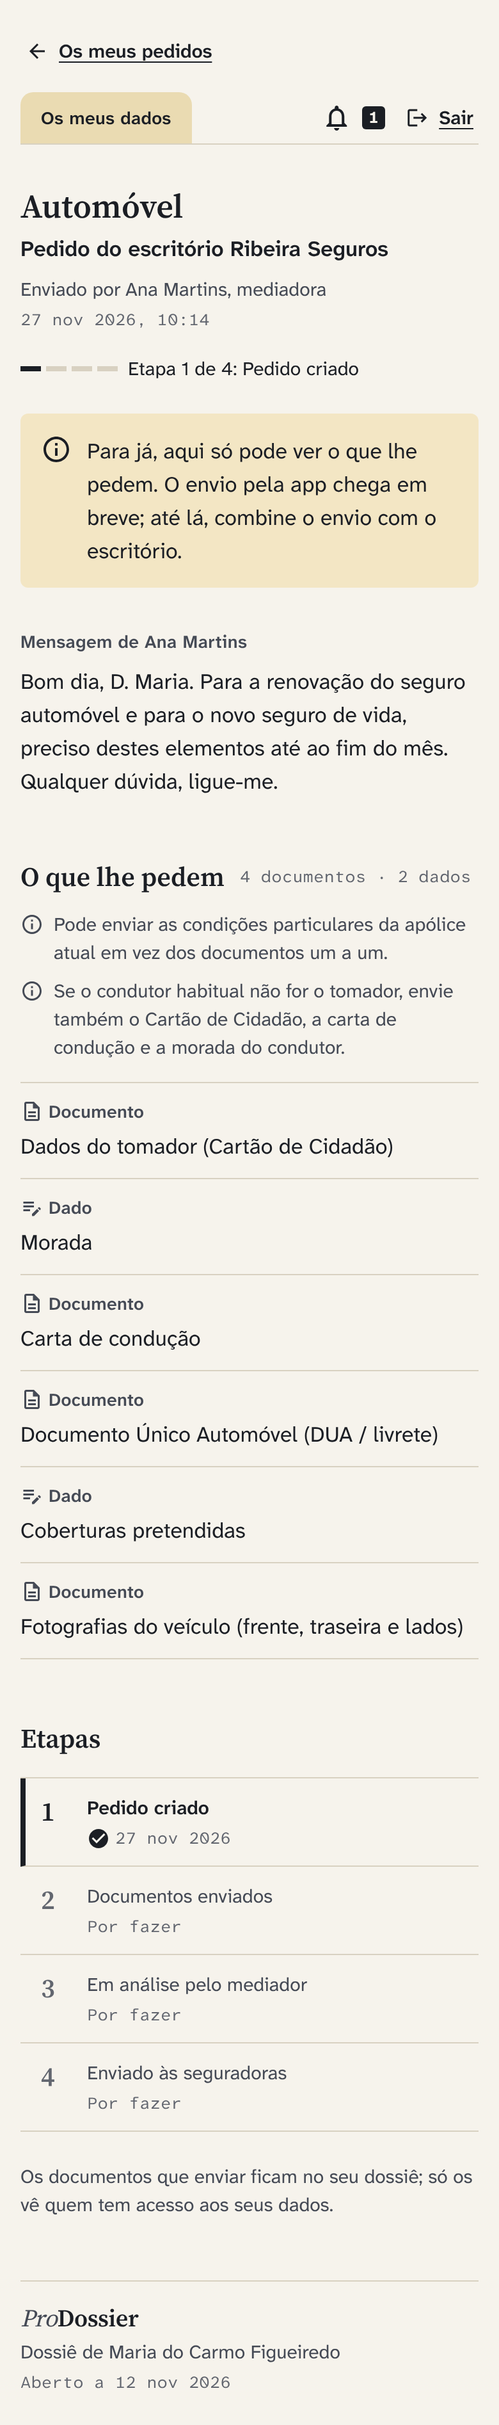
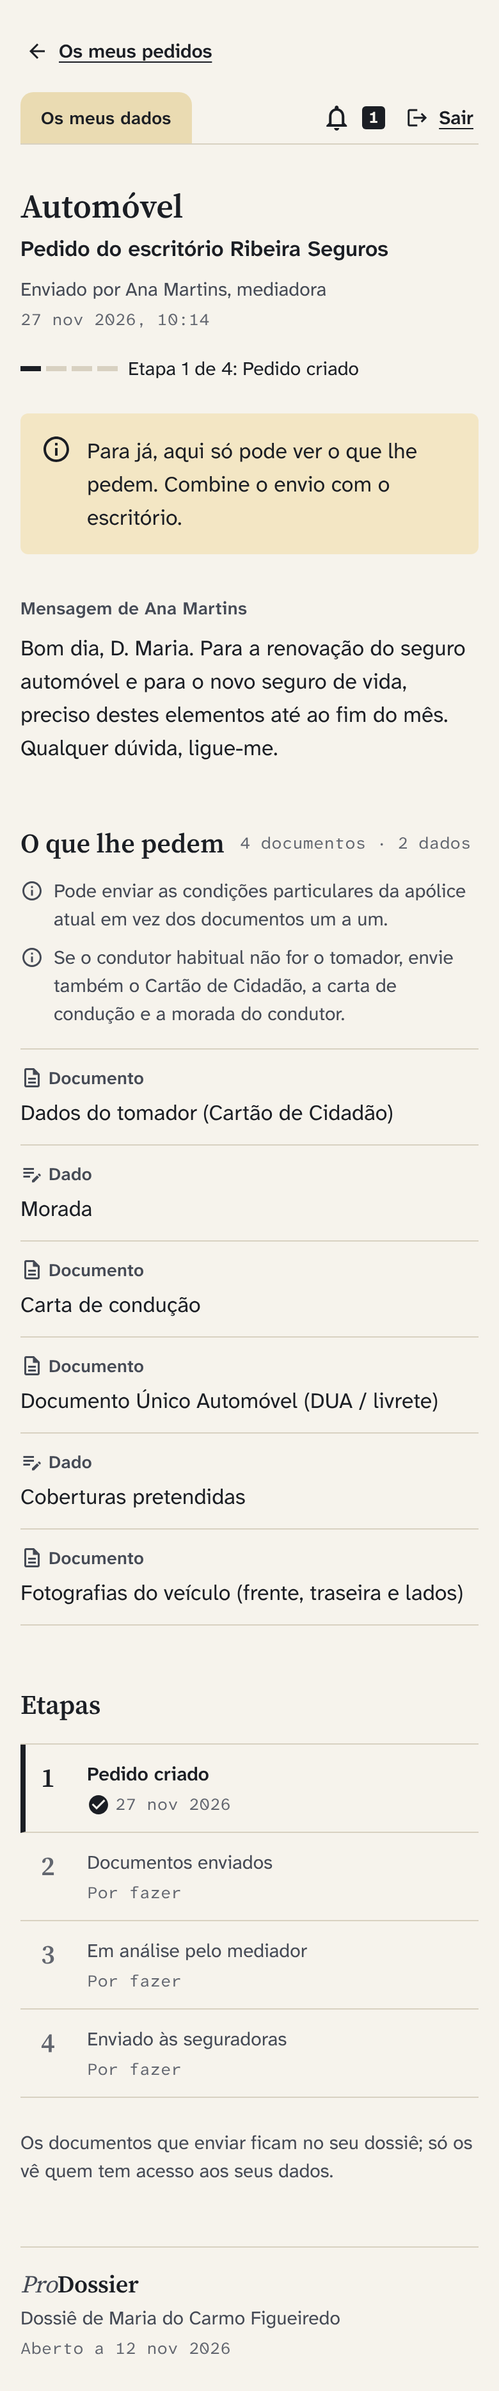
docs: ajustes do gate 2 da 002 (em curso)
Claude-Session: https://claude.ai/code/session_0153MsAUGaukdtLa8ahSZEuk

diff --git a/docs/features/002-novo-pedido/renders/src/catalogo.js b/docs/features/002-novo-pedido/renders/src/catalogo.js
@@ -23,8 +23,8 @@ window.CATALOGO = [
   { id: 6, nome: 'Saúde', itens: [CCT, MORADA, ['I', 'Data de nascimento de todas as pessoas a incluir'], ['I', 'Coberturas e capitais pretendidos']], nota: 'Para menores, o tomador é a mãe ou o pai. Com seguro de saúde há mais de 2 anos é possível transferir os períodos de carência.' },
   { id: 7, nome: 'Acidentes Pessoais', itens: [CCT, MORADA, ['I', 'Coberturas pretendidas'], ['I', 'Profissão']], nota: 'Individual ou de grupo.' },
   { id: 8, nome: 'Automóvel', itens: [CCT, MORADA, ['D', 'Carta de condução'], ['D', 'Documento Único Automóvel (DUA / livrete)'], ['I', 'Coberturas pretendidas'], ['I', 'Franquias (danos próprios)']], nota: 'Se o condutor habitual não for o tomador, envie também o Cartão de Cidadão, a carta de condução e a morada do condutor.' },
-  { id: 9, nome: 'Acidentes de Trabalho (prémio fixo)', itens: [['D', 'Dados do tomador (empresa)'], MORADA, ['I', 'CAE'], ['I', 'Nome e data de nascimento dos trabalhadores'], ['D', 'Recibos de vencimento (horas, salário base, subsídios)'], ['D', 'Apólice em vigor']], nota: 'Se já tem seguro, a apólice em vigor é essencial.' },
-  { id: 10, nome: 'Acidentes de Trabalho (prémio variável)', itens: [['D', 'Dados do tomador (empresa)'], MORADA, ['I', 'CAE'], ['I', 'Massa salarial'], ['D', 'Apólice em vigor']], nota: 'Se já tem seguro, a apólice em vigor é essencial.' },
+  { id: 9, nome: 'Acidentes de Trabalho (prémio fixo)', itens: [['D', 'Dados do tomador (empresa)'], MORADA, ['I', 'CAE'], ['I', 'Nome e data de nascimento dos trabalhadores'], ['D', 'Recibos de vencimento (horas, salário base, subsídios)'], ['D', 'Apólice em vigor']], nota: 'Se a empresa já tem seguro, envie a apólice em vigor.' },
+  { id: 10, nome: 'Acidentes de Trabalho (prémio variável)', itens: [['D', 'Dados do tomador (empresa)'], MORADA, ['I', 'CAE'], ['I', 'Massa salarial'], ['D', 'Apólice em vigor']], nota: 'Se a empresa já tem seguro, envie a apólice em vigor.' },
   { id: 11, nome: 'Pets', itens: [CCT, ['D', 'Livro do animal e micro-chip'], ['I', 'Tipo de atividade do animal (companhia, provas desportivas, etc.)']], nota: '' },
   { id: 12, nome: 'Responsabilidade Civil', itens: [['D', 'Dados do tomador (CC para trabalhadores independentes)'], MORADA, ['I', 'CAE']], nota: '' },
   { id: 13, nome: 'Obras', itens: [['D', 'Dados do tomador (CC para particulares)'], ['I', 'Morada da obra'], ['D', 'Plantas'], ['D', 'Orçamentos'], ['D', 'Caderno de encargos'], ['D', 'Memória descritiva da obra'], ['I', 'Percentagem de obra realizada']], nota: 'Os documentos pedidos variam de seguradora para seguradora.' },

diff --git a/docs/features/002-novo-pedido/renders/src/meus-pedidos.html b/docs/features/002-novo-pedido/renders/src/meus-pedidos.html
@@ -50,7 +50,7 @@
   else if (e === 'erro') corpo = `<div class="aviso erro mt24" role="alert"><div class="linha"><span class="ic g">${IC.erro}</span><p class="corpo">Não foi possível carregar os seus pedidos. Tente de novo.</p></div><div class="acoes mt12"><div class="btn contorno">Tentar de novo</div></div></div>`;
   else if (e === 'vazio') corpo = `<section class="mt24"><p class="corpoForte">Ainda não tem pedidos.</p><p class="corpo media mt4">Quando um escritório lhe pedir documentos para um seguro, o pedido aparece aqui e recebe também um email.</p></section>`;
   else corpo = `<p class="corpoForte mt8">Tem 3 pedidos em curso.</p>
-    <div class="aviso mt24"><div class="linha"><span class="ic g">${IC.info}</span><p class="corpo">Para já, aqui só pode ver o que lhe pedem. O envio pela app chega em breve; até lá, combine o envio com o escritório.</p></div></div>
+    <div class="aviso mt24"><div class="linha"><span class="ic g">${IC.info}</span><p class="corpo">Para já, aqui só pode ver o que lhe pedem. Combine o envio com o escritório.</p></div></div>
     <h2 class="rotulo media mt32">Em curso</h2>
     <div class="lista mt8" style="border-top:0">${ped('Automóvel', 'Ribeira Seguros', '27 nov 2026, 10:14', 4, 2)}${ped('Vida', 'Ribeira Seguros', '27 nov 2026, 10:14', 1, 4)}${ped('Saúde', 'Gabinete de Mediação de Seguros Vale do Sousa &amp; Filhos, Lda.', '22 nov 2026, 17:48', 1, 3)}</div>
     <h2 class="rotulo media mt32">Com o acesso retirado</h2>

diff --git a/docs/features/002-novo-pedido/renders/src/pedido.html b/docs/features/002-novo-pedido/renders/src/pedido.html
@@ -70,7 +70,7 @@
        <div class="meta mt8"><span class="corpoPequeno media">Enviado por Ana Martins, mediadora</span><span class="registo tenue">27 nov 2026, 10:14</span></div>`;
   const avisoRetirado = retirado ? `<div class="mt24"><div class="estado">${F.carimbo('inativo', 'Acesso retirado', IC.retirado)}<span class="registo tenue">Retirado a 26 nov 2026, 15:02</span></div>
       <p class="corpo mt12">O escritório Ribeira Seguros já não vê este pedido nem os seus dados. Se voltar a dar acesso, o pedido continua onde estava.</p></div>` : '';
-  const interino = !med && !retirado ? `<div class="aviso mt24"><div class="linha"><span class="ic g">${IC.info}</span><p class="corpo">Para já, aqui só pode ver o que lhe pedem. O envio pela app chega em breve; até lá, combine o envio com o escritório.</p></div></div>` : '';
+  const interino = !med && !retirado ? `<div class="aviso mt24"><div class="linha"><span class="ic g">${IC.info}</span><p class="corpo">Para já, aqui só pode ver o que lhe pedem. Combine o envio com o escritório.</p></div></div>` : '';
 
   P.innerHTML = voltar + pasta + `<article class="col-leitura">
     <h1 class="titulo mt32">Automóvel</h1>

diff --git a/docs/features/002-novo-pedido/03-design.md b/docs/features/002-novo-pedido/03-design.md
@@ -1,6 +1,6 @@
 # 03 Design: 002 Novo pedido (mediador) + clientes com o estado dos pedidos
 
-> Estado: **proposta para o gate 2** (2026-11-27). Renders em `renders/` (índice em `renders/README.md`).
+> **Gate 2 aprovado (2026-11-27)** pelo Henrique, com as decisões fechadas na secção "Decisões do gate 2". Tokens novos e o carimbo "Acesso retirado" já estão em `docs/design/DESIGN.md`. Renders em `renders/` (índice em `renders/README.md`).
 > Classificação: **refinamento com extensão**. A identidade da 001 ("Dossiê arrumado", aprovada a 2026-11-26) mantém-se tal como está: papel e tinta, separador de pasta, carimbos, réguas, colofão. A 002 acrescenta quatro peças novas a esse vocabulário (a lista de tipos, a folha "O cliente vai receber", o trilho/faixa de etapas e o sino) e mexe em dois ecrãs da 001 (Clientes e o ecrã inicial do cliente). Nenhuma fonte, cor ou dependência nova.
 > Fonte do âmbito: `02-spec.md` (gate 1 fechado a 27/11). Catálogo: `docs/reference/tipos-de-seguro.md`. O protótipo antigo foi usado só como referência de fluxo (grelha de 13 tipos, caixa de condições particulares, "O cliente vai receber" ao lado).
 
@@ -111,7 +111,7 @@ Mesma composição do ecrã 5 (pedido do cliente), com o widget partilhado `Requ
 ### 4. Os meus pedidos [cliente; passa a ser o ecrã inicial do cliente]
 
 - **Hierarquia:** 1.º (se houver) o bloco "À espera da sua resposta" da 001, que continua acima de tudo; 2.º "Os meus pedidos" e a lista; 3.º a passagem para "Com quem partilho".
-- **Composição:** separador "Os meus dados" + sino + "Sair". Título "Os meus pedidos"; frase-resumo `corpoForte` "Tem 3 pedidos em curso."; `InlineNotice` informativo enquanto não existir a 003 (ver Decisões em aberto). Grupos com cabeçalho `rotulo` `tintaMedia`, coluna `larguraLeitura` 640:
+- **Composição:** separador "Os meus dados" + sino + "Sair". Título "Os meus pedidos"; frase-resumo `corpoForte` "Tem 3 pedidos em curso."; `InlineNotice` informativo enquanto não existir a 003: "Para já, aqui só pode ver o que lhe pedem. Combine o envio com o escritório." (sem promessa de data; sai quando a 003 entrar). Grupos com cabeçalho `rotulo` `tintaMedia`, coluna `larguraLeitura` 640:
   - **Em curso:** cada pedido numa linha com régua: tipo em `subtitulo`; "Do escritório {escritório}" em `corpoPequeno` `tintaMedia` (até 2 linhas); trilho "Etapa 1 de 4: Pedido criado" + `registo` com a data; `corpoPequeno` "4 documentos e 2 dados pedidos"; à direita (médio/largo) ou por baixo a toda a largura (compacto) `SecondaryButton` "Ver o pedido" (48).
   - **Com o acesso retirado** (US 4.3): apoio "Estes escritórios já não veem os pedidos nem os seus dados. Se voltar a dar acesso, os pedidos continuam onde estavam."; a linha leva o carimbo novo "Acesso retirado" (`estadoInativo`, `undo`) em vez do trilho. "Ver o pedido" continua (ver não é uma ação sobre o pedido).
   - A `s48`, depois de uma régua: "Com quem partilho" (`subtitulo`), "Partilha os seus dados com 2 escritórios." e `SecondaryButton` "Ver com quem partilho" (abre o ecrã 4 da 001, que perde o papel de ecrã inicial mas fica igual).
@@ -120,7 +120,7 @@ Mesma composição do ecrã 5 (pedido do cliente), com o widget partilhado `Requ
 ### 5. Pedido [cliente; só leitura]
 
 - **Hierarquia:** 1.º tipo e escritório; 2.º o que lhe pedem (com a mensagem antes, como contexto); 3.º as etapas.
-- **Composição** (coluna 640): regresso "Os meus pedidos"; título com o tipo; "Pedido do escritório Ribeira Seguros" (`corpoForte`); "Enviado por Ana Martins, mediadora" + `registo` data; trilho "Etapa 1 de 4: Pedido criado"; `InlineNotice` interino; "Mensagem de Ana Martins" (`rotulo` `tintaMedia`) + texto `corpo` (quebra livre, nunca cortado); "O que lhe pedem" (`subtitulo`) + `registo` "4 documentos · 2 dados"; notas (condições particulares e nota do tipo); itens com réguas (natureza + texto, sem ação); "Etapas" (`subtitulo`) e a **faixa de etapas**; rodapé "Os documentos que enviar ficam no seu dossiê; só os vê quem tem acesso aos seus dados."
+- **Composição** (coluna 640): regresso "Os meus pedidos"; título com o tipo; "Pedido do escritório Ribeira Seguros" (`corpoForte`); "Enviado por Ana Martins, mediadora" + `registo` data; trilho "Etapa 1 de 4: Pedido criado"; `InlineNotice` interino (mesmo texto de Os meus pedidos); "Mensagem de Ana Martins" (`rotulo` `tintaMedia`) + texto `corpo` (quebra livre, nunca cortado); "O que lhe pedem" (`subtitulo`) + `registo` "4 documentos · 2 dados"; notas (condições particulares e nota do tipo); itens com réguas (natureza + texto, sem ação); "Etapas" (`subtitulo`) e a **faixa de etapas**; rodapé "Os documentos que enviar ficam no seu dossiê; só os vê quem tem acesso aos seus dados."
 - **Faixa de etapas (`StageStrip`):** médio/largo, 4 colunas iguais com réguas verticais `regua`, régua de baixo, e em cima de cada coluna uma barra de `AppStroke.etapa` 4: `tinta` nas etapas feitas, `regua` nas outras. Em cada coluna: número em `subtitulo` (serifa, tabular; `tintaTenue` se por fazer), nome em `corpoPequeno` (600 se feita, `tintaMedia` se não) e o estado: `check_circle` 18 + `registo` com a data, ou `registo` "Por fazer". Compacto: 4 linhas empilhadas (número à esquerda, nome e estado à direita), a barra passa para a esquerda da linha (4 de largura) só nas feitas. Nomes: "Pedido criado", "Documentos enviados", "Em análise pelo mediador", "Enviado às seguradoras".
 - **Acesso retirado:** em vez do trilho, carimbo "Acesso retirado" + `registo` "Retirado a 26 nov 2026, 15:02" e `corpo` "O escritório Ribeira Seguros já não vê este pedido nem os seus dados. Se voltar a dar acesso, o pedido continua onde estava." Sem aviso interino e sem ações.
 - **Sem acesso / não encontrado:** "Pedido não encontrado" + "Este pedido não existe ou não é seu. Veja os seus pedidos na página inicial." + `SecondaryButton` "Ver os meus pedidos" (56).
@@ -159,7 +159,7 @@ Um email por criação (os N pedidos juntos), enviado por função de servidor (
 | `PageFrame` / `AccountActions` | existentes | A linha da conta do cliente passa a ter o sino antes de "Sair" (`s8` entre eles). A ligação de regresso por cima da linha do separador já existe no consentimento: generalizar como parâmetro do `PageFrame` em vez de cada ecrã a desenhar. |
 | Barra fixa do Novo pedido | `PageFrame.bottom` | Reutiliza a barra fixa do consentimento: resumo à esquerda, `PrimaryButton` à direita, razão por baixo do botão. |
 
-## Tokens propostos (a acrescentar em DESIGN.md e `tokens.dart` só depois do gate 2)
+## Tokens novos (em DESIGN.md desde o gate 2; o flutter-dev cria-os em `tokens.dart`)
 
 | Token | Valor | Uso |
 | --- | --- | --- |
@@ -239,15 +239,25 @@ Regras de transição da 001 ("Transições entre ecrãs") sem mudanças. Storyb
 - Escala de texto 1.3: a barra fixa do Novo pedido cresce em altura (nunca corta o botão); itens e linhas descem um nível pela regra de `textoMinimo`.
 - Contraste: todos os pares de texto já aprovados (DESIGN.md); `tintaTenue` nunca sobre `cartolina` (o sino aberto usa `tinta` sobre `cartolina`, 12.1).
 
-## Decisões em aberto (para o gate 2)
+## Decisões do gate 2 (fechadas a 2026-11-27)
 
-1. **Ecrã inicial do cliente.** A: "Os meus pedidos" passa a ser o ecrã inicial, com passagem para "Com quem partilho" no fim (renders). B: "Com quem partilho" continua inicial e ganha uma secção de pedidos no topo. C: uma só página "Os meus dados" com as duas secções. **Recomendação A**: os pedidos são o que o cliente vem fazer e as decisões de partilha merecem um ecrã próprio, calmo; o bloco de consentimento pendente da 001 continua no topo de A.
-2. **Aviso interino ao cliente até à 003** ("Para já, aqui só pode ver o que lhe pedem. O envio pela app chega em breve; até lá, combine o envio com o escritório."). A: manter (renders). B: não dizer nada. C: texto sem promessa de "em breve" ("Por agora, combine o envio dos documentos com o escritório."). **Recomendação C** se a 003 não tiver data; A se vier logo a seguir.
-3. **Notas do catálogo na voz do mediador.** As notas 8 ("pedir também o CC…"), 9 e 10 ("Pedir a apólice em vigor") falam para o mediador, mas o cliente vai lê-las. A: reescrever na voz do cliente no catálogo (renders usam "Se o condutor habitual não for o tomador, envie também o Cartão de Cidadão, a carta de condução e a morada do condutor." e "Se já tem seguro, a apólice em vigor é essencial."). B: duas notas por tipo (mediador e cliente). **Recomendação A** (o supabase-dev ajusta os dados do catálogo; a referência `docs/reference/tipos-de-seguro.md` fica como está).
-4. **Hierarquia dos botões de Clientes.** A: "Novo pedido" principal e "Criar cliente" secundário (renders). B: manter "Criar cliente" principal da 001. **Recomendação A**.
-5. **Tabela de Clientes em largo perde a coluna Data separada** (passa a carimbo + data na mesma coluna, como no médio) para caber a coluna Pedidos. Assumida; ver se o Henrique sente falta da data numa coluna à parte.
-6. **Um email por criação (N pedidos juntos) e não um por pedido.** A spec diz "email curto com os tipos pedidos", o que já sugere um; também poupa o limite de 2 emails por hora do Supabase. Assumida.
-7. **Tokens novos** (tabela acima) entram em DESIGN.md e `tokens.dart` depois de aprovados; o `StampStatus.acessoRetirado` também.
+1. **Ecrã inicial do cliente: A.** "Os meus pedidos" passa a ser o ecrã onde o cliente aterra (com o bloco pendente da 001 no topo, se houver) e tem, no fim, a passagem para "Com quem partilho", que fica igual mas deixa de ser inicial. Um link de um pedido de acesso concreto continua a abrir o consentimento.
+2. **Aviso interino: C.** "Para já, aqui só pode ver o que lhe pedem. Combine o envio com o escritório." em Os meus pedidos e no pedido do cliente (não aparece em pedidos com acesso retirado). Sem promessa de data. Sai com a 003.
+3. **Notas do catálogo na voz do cliente: aceite.** Texto final na secção seguinte.
+4. **Clientes: "Novo pedido" principal, "Criar cliente" secundário: aceite.**
+5. **Um só email por criação (N pedidos juntos): aceite.** Também ficam assumidas a coluna Estado + data em largo na tabela de Clientes e os tokens novos.
+
+## Catálogo: notas na voz do cliente
+
+Texto final das notas para os dados do catálogo (o supabase-dev usa estas frases tal como estão; `docs/reference/tipos-de-seguro.md` fica como fonte histórica). As notas são lidas pelo cliente no pedido e pelo mediador na pré-visualização, por isso estão todas na voz do cliente, em PT-PT formal, e terminam com ponto. As 10 restantes mantêm o texto do catálogo; acrescenta-se só o ponto final onde falta.
+
+| # | Tipo | Nota no catálogo original | Nota final (dados) |
+| --- | --- | --- | --- |
+| 8 | Automóvel | Se o condutor for diferente do tomador, pedir também o CC, a carta de condução e a morada do condutor | Se o condutor habitual não for o tomador, envie também o Cartão de Cidadão, a carta de condução e a morada do condutor. |
+| 9 | Acidentes de Trabalho (prémio fixo) | Pedir a apólice em vigor | Se a empresa já tem seguro, envie a apólice em vigor. |
+| 10 | Acidentes de Trabalho (prémio variável) | Pedir a apólice em vigor | Se a empresa já tem seguro, envie a apólice em vigor. |
+
+Notas sem alteração de texto (só ponto final): 1 e 2 (nota saúde), 3, 5, 6, 7, 13. Tipos 4, 11 e 12 não têm nota (a folha não mostra a linha de nota).
 
 ## Renders
 

diff --git a/docs/design/DESIGN.md b/docs/design/DESIGN.md
@@ -1,7 +1,7 @@
 # DESIGN.md: direção de arte
 
 > Fonte de verdade do agente designer. Os tokens e componentes vivem no design system; aqui fica a intenção, as regras e o que já foi rejeitado.
-> Estado: **aprovada no gate 2 da feature 001** (2026-11-26), incluindo as fontes. Revista no mesmo dia para a decisão **web-first e responsiva** (`docs/decisions.md`). Os tokens existem em `lib/core/design/`; os marcados "(proposto)" ainda não, e o flutter-dev cria-os. Nenhum ecrã usa valores soltos: se faltar um token, propõe-se aqui primeiro.
+> Estado: **aprovada no gate 2 da feature 001** (2026-11-26), incluindo as fontes. Revista no mesmo dia para a decisão **web-first e responsiva** (`docs/decisions.md`). Acrescentos do gate 2 da feature 002 (2026-11-27): tokens de etapas, natureza dos itens, mensagem e notificações, carimbo "Acesso retirado" e os componentes de pedido (marcados "(proposto, 002)"). Os tokens existem em `lib/core/design/`; os marcados "(proposto)" ainda não, e o flutter-dev cria-os. Nenhum ecrã usa valores soltos: se faltar um token, propõe-se aqui primeiro.
 
 ## Personalidade
 
@@ -30,7 +30,7 @@ O que torna a app reconhecível num screenshot sem logótipo:
 1. **Papel e tinta.** Fundo cor de papel (`papel`), texto quase preto (`tinta`), e a ação principal é um botão cheio a tinta. Não há "cor de marca" a pintar botões: a autoridade vem do contraste, não do azul.
 2. **O separador de pasta.** O contexto do ecrã (o escritório, "Os meus dados" no cliente, ou "Acesso" antes de haver sessão) aparece num separador cor de cartolina (`cartolina`) colado ao topo da área de conteúdo, com cantos superiores arredondados (`AppRadius.separador`) e o resto reto. Por baixo, uma régua `regua` corre a largura da moldura (1040 em largo), mesmo quando a coluna é mais estreita: é a borda da pasta. O separador é a primeira linha do ecrã: não há cabeçalho nem marca por cima nos ecrãs com sessão; "Sair" (e o nome, onde couber) fica na mesma linha, encostado à direita da moldura e centrado com o separador. Sem sessão, o separador diz "Acesso". É a única forma "decorativa" da app e é sempre informativa: diz em nome de quem se está a ver. A marca não vive aqui: vive no colofão (ponto 7).
 3. **Serifa nos títulos e nos números, sans legível no resto.** Títulos, nomes de escritórios e contagens em Source Serif 4; interface e corpo em Atkinson Hyperlegible Next; datas, versões e registos em Atkinson Hyperlegible Mono.
-4. **O carimbo.** Estados (Ativo, Pendente, Recusado, Retirado) são etiquetas retangulares de canto quase reto (`AppRadius.carimbo`), com ícone + palavra, contorno de 1.5 na cor do estado e fundo `folha`. Parecem carimbos num processo, não "pills" de app.
+4. **O carimbo.** Estados de partilha (Ativo, Pendente, Recusado, Retirado, e "Acesso retirado" nos pedidos do cliente) são etiquetas retangulares de canto quase reto (`AppRadius.carimbo`), com ícone + palavra, contorno de 1.5 na cor do estado e fundo `folha`. Parecem carimbos num processo, não "pills" de app. As etapas de um pedido não são carimbos: são texto ("Etapa 1 de 4: Pedido criado") reforçado pelo trilho ou pela faixa de etapas.
 5. **Réguas em vez de cartões.** Listas separadas por linhas finas (`regua`), sem sombras. Só há superfície elevada (`folha`) em formulários, folhas laterais e diálogos.
 6. **A voz.** Frases curtas, verbos concretos, datas sempre por extenso curto ("26 nov 2026, 14:32"). Cada ação sensível diz o que acontece a seguir.
 7. **O colofão** (escolhido pelo Henrique a 2026-11-26). A página acaba como a última folha de um livro: uma régua `regua` à largura da moldura e, por baixo, o wordmark "*Pro*Dossier", uma linha que diz de quem é o que se está a ver e, onde houver, uma data de registo. É o único sítio onde a marca aparece na app (também no fim dos emails). Nunca é cabeçalho, nunca é fixo, nunca compete com o conteúdo: está depois dele.
@@ -98,9 +98,10 @@ A escala de texto do sistema é respeitada até 1.3 sem cortar ações; acima di
 
 - `AppSpace`: `s4`=4, `s8`=8, `s12`=12, `s16`=16, `s24`=24, `s32`=32, `s48`=48, `s72`=72. Ritmo: 8 dentro de um componente, 16 a 24 entre elementos de um grupo, 32 da régua do separador ao título, 48 entre grupos. Topo da janela ao separador: `s16` em compacto, `s24` em médio/largo (não há linha de cabeçalho). `s72` é a distância do fim do conteúdo à régua do colofão em médio/largo (`s48` em compacto); não volta a ser usado como vazio acima de formulários (rejeitado).
 - `AppRadius`: `carimbo`=3, `controlo`=6 (botões, campos), `superficie`=10 (folhas, diálogos), `separador`=10 só nos cantos superiores. Listas e linhas não têm raio.
-- `AppStroke`: `fino`=1 (réguas), `controlo`=1.5 (campos, botão secundário, carimbos), `foco`=2, `focoAfastamento`=2 (distância entre o controlo e o anel de foco).
+- `AppStroke`: `fino`=1 (réguas), `controlo`=1.5 (campos, botão secundário, carimbos), `foco`=2, `focoAfastamento`=2 (distância entre o controlo e o anel de foco). Proposto, 002: `etapa`=4 (espessura do trilho de etapas e da barra de cada coluna da faixa de etapas).
 - `AppSize`: `alvoMinimo`=48, `alvoPrincipal`=56 (ações principais do cliente em todos os tamanhos; de mediador e admin em compacto), `campo`=52, `larguraLeitura`=640 (texto de consentimento, listas de leitura do cliente, diálogo só de leitura), `larguraLista`=1040 (também largura máxima da moldura em largo), `folhaLateral`=440, `separadorAltura`=40, `icone`=24 (ícones de interface: resumo do consentimento, spinner), `iconePequeno`=18 (ícones dentro de carimbos, campos, avisos e botões), `dialogo`=480 (diálogo de confirmação em médio/largo).
 - `AppSize` (proposto, para a feature 001): `larguraFormulario`=400 (coluna de Entrar, recuperar/definir/criar palavra-passe, link expirado; largura máxima do separador de pasta em médio/largo), `textoMinimo`=240 (largura mínima da zona de texto de uma linha antes de passar ao layout seguinte, mais empilhado), `linhaTabela`=72 (altura mínima de linha de tabela), `colunaEstado`=152 (revisto de 140: o carimbo "PENDENTE"/"RECUSADO" mede ~150 com a fonte real), `colunaData`=248 (também a coluna Estado + data da tabela em médio; revisto de 200 nos renders da tarefa 4b: "Recusado a 20 nov 2026, 09:12" em `registo` mede 238), `colunaAcao`=160.
+- `AppSize` (proposto, 002): `colunaEtapa`=200 (coluna Pedidos em Clientes e Etapa na ficha do cliente, largo), `segmentoEtapa`=16 (largura de cada um dos 4 segmentos do trilho), `colunaNatureza`=120 ("Documento" / "Dado" com ícone à esquerda de cada item de pedido), `campoMensagem`=128 (altura mínima do campo de mensagem, 4 linhas), `marcaNaoLida`=8 (quadrado a `tinta` das notificações por ler). O contador do sino não tem token próprio: altura e largura mínima `iconePequeno`, texto `AppType.carimbo`.
 - `AppBreakpoints`: `compacto` < 640 (telemóvel), `medio` 640 a 1100 (tablet), `largo` > 1100 (desktop). 640 exato já é médio (a decisão diz "até 640"; 1 px sem efeito prático). Margens laterais: 16 / 32 / 48. Proposto: `alturaBaixa`=480 (altura da janela abaixo da qual as barras fixas encolhem: telemóvel deitado).
 - Sombras: nenhuma, exceto diálogos, folhas inferiores e folhas laterais (`AppShadow.superficie`: deslocamento 0 8, desfoque 24, cor `sombra`). Cartões com elevação estão proibidos.
 
@@ -127,7 +128,8 @@ A criar em `lib/core/widgets/` na feature 001:
 
 - `FolderTab` (separador de pasta com o contexto), `PageFrame` (papel + `s16`/`s24` de topo + linha do separador com a conta à direita + régua à largura da moldura + margens por breakpoint + largura máxima). `FolderTabs` (separadores escolhíveis) deixou de ser usado a 2026-11-26, quando Entrar passou a um só formulário para todos os perfis; não se usa separadores de pasta como controlo de navegação sem uma razão nova.
 - Geometria da linha do separador (tarefa 9): a linha tem a altura do alvo de "Sair" (`alvoMinimo` 48), o separador (`separadorAltura` 40) começa a 4 do topo dela e a régua (`fino` 1) fica a 44. Os 3 que sobram por baixo da régua (48 − 4 − 40 − 1) contam para o espaço até ao título: o título fica a `s32` da régua, não a `s32` + 3. O `PageFrame` compensa isto (expõe o espaço já gasto, ou o conteúdo começa a `s32` − 3), em vez de cada ecrã somar `s32` por conta própria.
-- `StatusStamp` (carimbo: ativo, pendente, recusado, retirado; ícone + palavra, nunca só cor).
+- `StatusStamp` (carimbo: ativo, pendente, recusado, retirado e, proposto na 002, `acessoRetirado` "ACESSO RETIRADO" com `Icons.undo` em `estadoInativo`; ícone + palavra, nunca só cor).
+- Propostos na 002 (detalhe em `docs/features/002-novo-pedido/03-design.md`): `StageTrack` (trilho de 4 segmentos + palavra), `StageStrip` (faixa de 4 etapas com réguas, como as contagens do admin), `CheckRow` (lista de verificação com réguas e caixa própria de `icone` 24; nunca `CheckboxListTile` por defeito), `TagLabel` (etiqueta neutra: contorno `reguaForte` 1, `rotulo` `tintaMedia`, sem maiúsculas, para "Condições particulares" e "Origem"), `NotificationBell` (ícone + palavra + contador retangular a `tinta` ao lado, nunca `Badge` sobreposto; oculto a 0, "9+" acima de 9).
 - `PrimaryButton` (cheio a tinta, spinner só aqui dentro), `SecondaryButton` (contorno `reguaForte` 1.5), `DestructiveButton` (cheio a `erro`), `TextAction` (sublinhado, para ações de linha).
 - `LabeledField` (rótulo por cima, nunca só placeholder; erro por baixo com ícone).
 - `RuledList` / `RuledRow` (lista com réguas), `SkeletonRows`.
@@ -199,5 +201,7 @@ Decisão de 2026-11-26: a app é usada no navegador. Regras para todos os ecrãs
 | 2026-11-26 | Marca na "etiqueta da lombada": wordmark em serifa no separador sem sessão e monograma "pD" num campo próprio do separador com sessão | Proposta de marca não escolhida (o Henrique escolheu o colofão); não pôr a marca no separador |
 | 2026-11-26 | Marca como "selo de registo": carimbo a tinta, contorno duplo e inclinado, com "PRODOSSIER" e a data, nos momentos registados (link enviado, consentimento, acesso retirado) | Proposta de marca não escolhida (o Henrique escolheu o colofão); não usar selos de marca nos avisos |
 | 2026-11-26 | Vazio entre a linha do topo (marca + conta) e o separador de pasta: 24 + 16 nos ecrãs de lista e mais 32 / 48 / 72 nos formulários de entrada | Demasiado espaço vertical; o separador tem de ficar colado ao cabeçalho, como uma pasta |
+| 2026-11-27 | Aviso ao cliente com promessa de data ("O envio pela app chega em breve") enquanto uma funcionalidade não existe | A app não promete prazos: diz o que se pode fazer agora ("Combine o envio com o escritório.") |
+| 2026-11-27 | "Com quem partilho" como ecrã inicial do cliente quando já há pedidos, ou uma página única com pedidos e partilha | O cliente aterra em "Os meus pedidos"; a partilha tem ecrã próprio, ligado a partir do fim dessa página |
 
 (Só rejeições do Henrique em gates. As direções descartadas pelo designer ficam no `03-design.md` de cada feature.)
